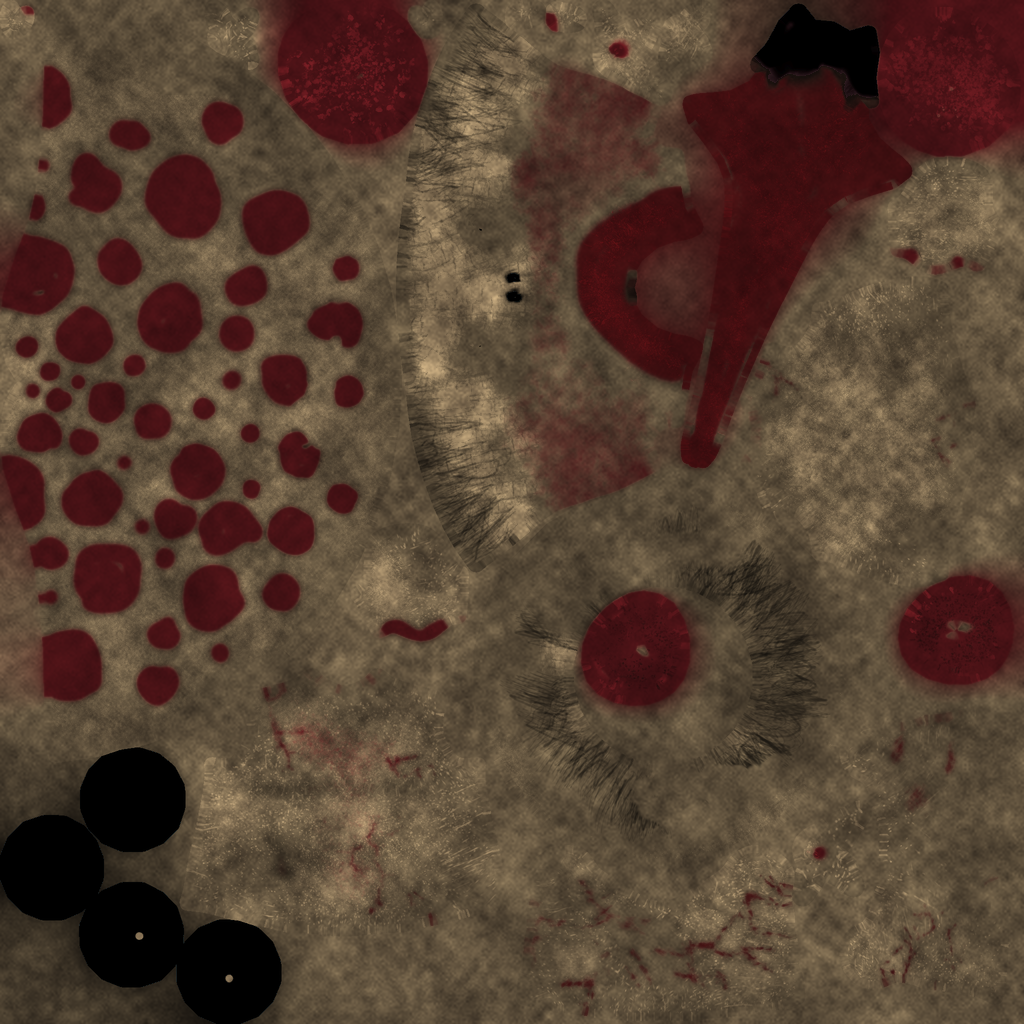
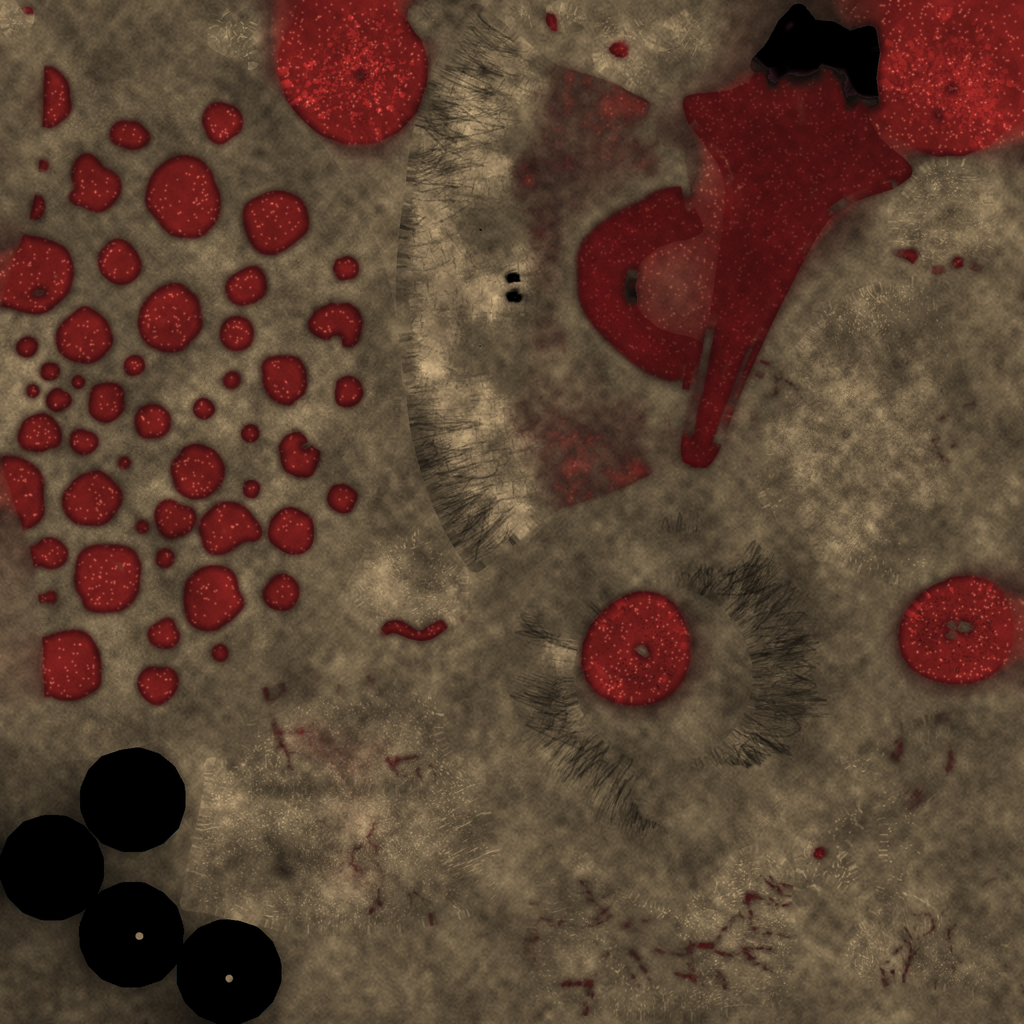
Hunt: detail-mapped terrain with anti-tiled paths, crisp leaf canopies, edge trees with visible trunks, contact-shadow multimesh; hero x-ray through occluders; boss outline removed and warts repainted with normal map; painted grain/rim for kit mobs; arcing damage numbers; quiet minion edge markers; 

diff --git a/tools/paint_thistle.py b/tools/paint_thistle.py
@@ -42,7 +42,16 @@ skin = np.array([0.30, 0.25, 0.19])
 skin_hi = np.array([0.50, 0.43, 0.32])
 mott = np.clip(0.5 + grain, 0, 1)[..., None]
 col = (skin * (1 - mott) + skin_hi * mott) * shade
-plum = np.array([0.30, 0.075, 0.09]) * shade
+# Domed warts: dark bruised edges rising to a lighter, freckled crown, so
+# each spot reads as a raised lump instead of a flat blotch.
+dist = ndimage.distance_transform_edt(spot > 0.5)
+dome = np.clip(dist / 9.0, 0, 1) ** 0.7
+fleck = (np.random.default_rng(3).random(spot.shape) > 0.985).astype(float)
+fleck = ndimage.gaussian_filter(fleck, 0.8) * 3.0
+plum_lo = np.array([0.16, 0.03, 0.045])
+plum_hi = np.array([0.46, 0.12, 0.11])
+plum = (plum_lo * (1 - dome[..., None]) + plum_hi * dome[..., None]) * shade
+plum = plum + np.clip(fleck, 0, 1)[..., None] * np.array([0.35, 0.25, 0.2]) * dome[..., None]
 # A pale ring round each spot, like real cap warts.
 edge = np.clip(ndimage.gaussian_filter(spot, 3.0) - spot, 0, 1)[..., None] * 1.6
 col = col * (1 - edge) + np.array([0.20, 0.13, 0.10]) * shade * edge
@@ -53,7 +62,7 @@ col = np.where(dark[..., None], a, col)
 col = np.clip(col * (1 + grain[..., None] * 0.5), 0, 1)
 Image.fromarray((col * 255).astype(np.uint8)).save(OUT)
 
-rough = np.clip(0.82 - spot * 0.22 - tongue * 0.3 + grain * 0.3, 0.35, 0.95)
+rough = np.clip(0.82 - spot * dome * 0.35 - spot * 0.1 - tongue * 0.3 + grain * 0.3, 0.35, 0.95)
 rimg = np.stack([rough, rough, rough], -1)
 Image.fromarray((rimg * 255).astype(np.uint8)).save(ROUGH)
 print("wrote", OUT, ROUGH)
